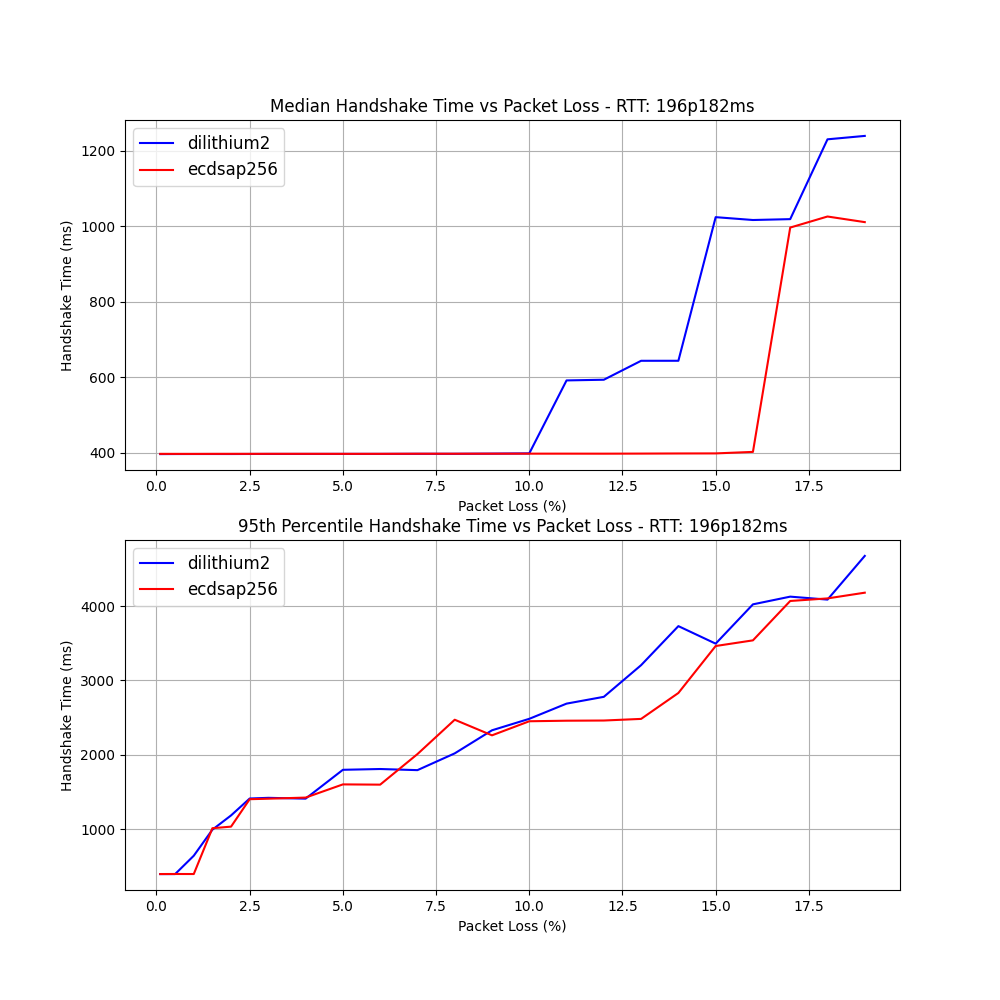
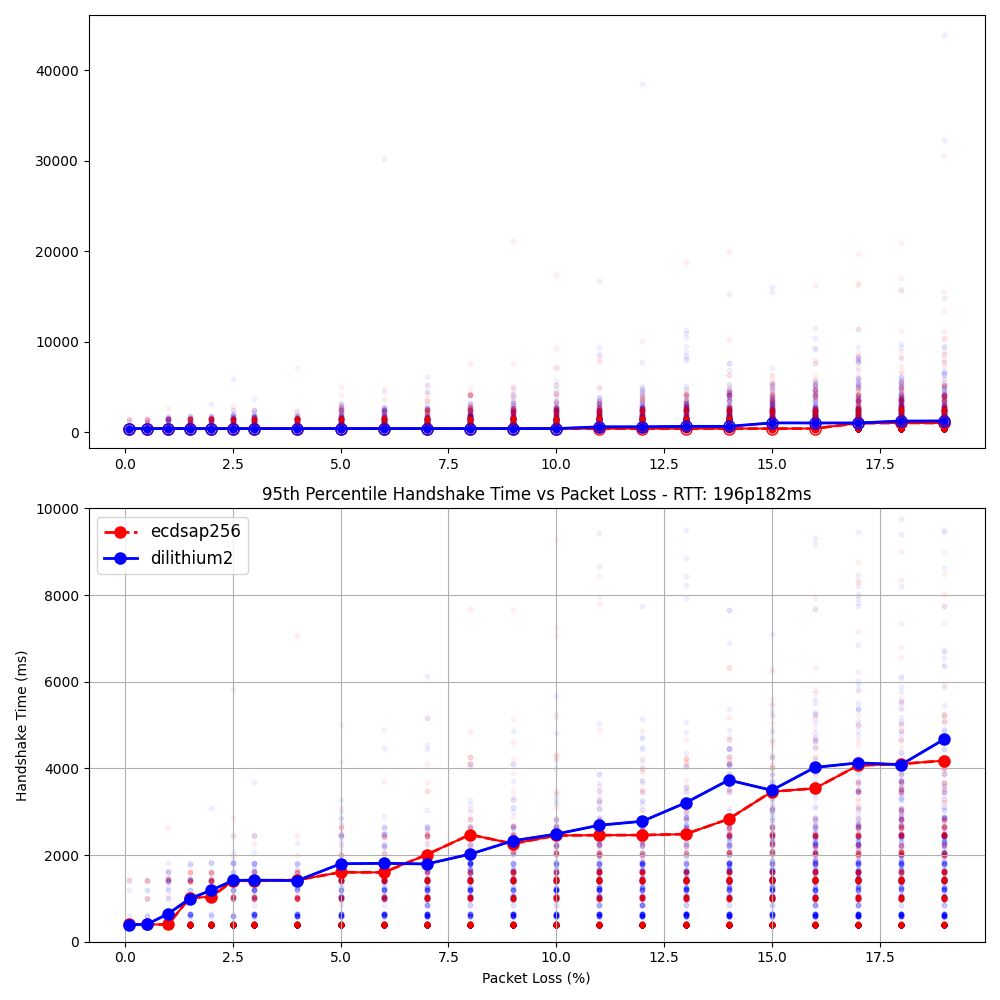
Done plotting

diff --git a/emulation-exp/code/utils/plot.py b/emulation-exp/code/utils/plot.py
@@ -14,49 +14,88 @@ def plot_data(pkt_loss, handshake_time_pq, handshake_time_trad, type, label=None
     percentile_95_pq = handshake_time_pq.apply(lambda x: x.quantile(0.95), axis=1)
     percentile_95_trad = handshake_time_trad.apply(lambda x: x.quantile(0.95), axis=1)
 
+    # Calculate percentage differences
+    median_diff_percent = ((median_pq - median_trad) / median_trad) * 100
+    percentile_95_diff_percent = ((percentile_95_pq - percentile_95_trad) / percentile_95_trad) * 100
+
+    # Print results
+    print(f"\n=== Results for {type.upper()} - RTT: {label} ===")
+    print("Packet Loss % | Median Diff % | 95th Percentile Diff %")
+    print("-" * 50)
+    for i, loss in enumerate(pkt_loss):
+        print(f"{loss:11.1f} | {median_diff_percent[i]:11.1f} | {percentile_95_diff_percent[i]:20.1f}")
+
     # Create two subplots
     fig, (ax1, ax2) = plt.subplots(2, 1, figsize=(10, 10))
 
     if type == 'kex':
-        # Plot medians in first subplot
-        ax1.plot(pkt_loss, median_pq, label=KEX_ALG[0], color='blue')
-        ax1.plot(pkt_loss, median_trad, label=KEX_ALG[1], color='red')
+        # Plot scatter points with lower alpha
+        for col in handshake_time_trad.columns:
+            ax1.scatter(pkt_loss, handshake_time_trad[col], alpha=0.05, color='red', s=10)
+        for col in handshake_time_pq.columns:
+            ax1.scatter(pkt_loss, handshake_time_pq[col], alpha=0.05, color='blue', s=10)
+            
+        # Plot medians with dashed line for traditional
+        ax1.plot(pkt_loss, median_trad, label=KEX_ALG[1], color='red', linewidth=2, linestyle='--', marker='o', markersize=8, fillstyle='none')
+        ax1.plot(pkt_loss, median_trad, color='red', marker='o', markersize=5)
+        ax1.plot(pkt_loss, median_pq, label=KEX_ALG[0], color='blue', linewidth=2, marker='o', markersize=8, fillstyle='none')
+        ax1.plot(pkt_loss, median_pq, color='blue', marker='o', markersize=5)
+        
         ax1.set_xlabel('Packet Loss (%)')
         ax1.set_ylabel('Handshake Time (ms)')
         ax1.set_title(f'Median Handshake Time vs Packet Loss - RTT: {label}')
         ax1.grid(True)
         ax1.legend(prop={'size': 12})
+        ax1.set_ylim(0, 10000)
         
-        # Plot 95th percentiles in second subplot
-        ax2.plot(pkt_loss, percentile_95_pq, label=KEX_ALG[0], color='blue')
-        ax2.plot(pkt_loss, percentile_95_trad, label=KEX_ALG[1], color='red')
-        ax2.set_xlabel('Packet Loss (%)')
-        ax2.set_ylabel('Handshake Time (ms)')
-        ax2.set_title(f'95th Percentile Handshake Time vs Packet Loss - RTT: {label}')
-        ax2.grid(True)
-        ax2.legend(prop={'size': 12})
-        
-        plt.tight_layout()
-    
-    elif type == 'sig':
-        # Plot medians in first subplot
-        ax1.plot(pkt_loss, median_pq, label=SIG_ALG[0], color='blue')
-        ax1.plot(pkt_loss, median_trad, label=SIG_ALG[1], color='red')
-        ax1.set_xlabel('Packet Loss (%)')
-        ax1.set_ylabel('Handshake Time (ms)')
-        ax1.set_title(f'Median Handshake Time vs Packet Loss - RTT: {label}')
-        ax1.grid(True)
-        ax1.legend(prop={'size': 12})
-        
-        # Plot 95th percentiles in second subplot
-        ax2.plot(pkt_loss, percentile_95_pq, label=SIG_ALG[0], color='blue')
-        ax2.plot(pkt_loss, percentile_95_trad, label=SIG_ALG[1], color='red')
-        ax2.set_xlabel('Packet Loss (%)')
-        ax2.set_ylabel('Handshake Time (ms)')
-        ax2.set_title(f'95th Percentile Handshake Time vs Packet Loss - RTT: {label}')
-        ax2.grid(True)
-        ax2.legend(prop={'size': 12})
+        # Do the same for 95th percentile plot
+        for col in handshake_time_trad.columns:
+            ax2.scatter(pkt_loss, handshake_time_trad[col], alpha=0.05, color='red', s=10)
+        for col in handshake_time_pq.columns:
+            ax2.scatter(pkt_loss, handshake_time_pq[col], alpha=0.05, color='blue', s=10)
+            
+        ax2.plot(pkt_loss, percentile_95_trad, label=KEX_ALG[1], color='red', linewidth=2, linestyle='--', marker='o', markersize=8)
+        ax2.plot(pkt_loss, percentile_95_trad, color='red', marker='o', markersize=5)
+        ax2.plot(pkt_loss, percentile_95_pq, label=KEX_ALG[0], color='blue', linewidth=2, marker='o', markersize=8)
+        ax2.plot(pkt_loss, percentile_95_pq, color='blue', marker='o', markersize=5)
 
+        ax2.set_xlabel('Packet Loss (%)')
+        ax2.set_ylabel('Handshake Time (ms)')
+        ax2.set_title(f'95th Percentile Handshake Time vs Packet Loss - RTT: {label}')
+        ax2.grid(True)
+        ax2.legend(prop={'size': 12})
+        ax2.set_ylim(0, 10000)
+        
+    elif type == 'sig':
+        # Similar updates for signature plots
+        for col in handshake_time_pq.columns:
+            ax1.scatter(pkt_loss, handshake_time_pq[col], alpha=0.05, color='blue', s=10)
+        for col in handshake_time_trad.columns:
+            ax1.scatter(pkt_loss, handshake_time_trad[col], alpha=0.05, color='red', s=10)
+            
+        ax1.plot(pkt_loss, median_trad, label=SIG_ALG[1], color='red', linewidth=2, linestyle='--', marker='o', markersize=8, fillstyle='none')
+        ax1.plot(pkt_loss, median_trad, color='red', marker='o', markersize=5)
+        ax1.plot(pkt_loss, median_pq, label=SIG_ALG[0], color='blue', linewidth=2, marker='o', markersize=8, fillstyle='none')
+        ax1.plot(pkt_loss, median_pq, color='blue', marker='o', markersize=5)
+        
+        for col in handshake_time_pq.columns:
+            ax2.scatter(pkt_loss, handshake_time_pq[col], alpha=0.05, color='blue', s=10)
+        for col in handshake_time_trad.columns:
+            ax2.scatter(pkt_loss, handshake_time_trad[col], alpha=0.05, color='red', s=10)
+            
+        ax2.plot(pkt_loss, percentile_95_trad, label=SIG_ALG[1], color='red', linewidth=2, linestyle='--', marker='o', markersize=8)
+        ax2.plot(pkt_loss, percentile_95_trad, color='red', marker='o', markersize=5)
+        ax2.plot(pkt_loss, percentile_95_pq, label=SIG_ALG[0], color='blue', linewidth=2, marker='o', markersize=8)
+        ax2.plot(pkt_loss, percentile_95_pq, color='blue', marker='o', markersize=5)
+
+        ax2.set_xlabel('Packet Loss (%)')
+        ax2.set_ylabel('Handshake Time (ms)')
+        ax2.set_title(f'95th Percentile Handshake Time vs Packet Loss - RTT: {label}')
+        ax2.grid(True)
+        ax2.legend(prop={'size': 12})
+        ax2.set_ylim(0, 10000)
+
+    plt.tight_layout()
     return plt
 
 def save_plot(plt, output_filename):
@@ -123,6 +162,7 @@ if __name__ == '__main__':
         
         # Separate packet loss and data columns
         packet_loss = df_ecdsa.iloc[:, 0] if len(df_dilithium.iloc[:, 0]) >= len(df_ecdsa.iloc[:, 0]) else df_dilithium.iloc[:, 0]
+        # packet_loss = df_prime.iloc[:, 0] if len(df_kyber.iloc[:, 0]) >= len(df_prime.iloc[:, 0]) else df_kyber.iloc[:, 0]
         handshake_time_dilithium = df_dilithium.iloc[: len(packet_loss), 1:]  # All other columns are data
         handshake_time_ecdsa = df_ecdsa.iloc[: len(packet_loss), 1:]  # All other columns are data
         
